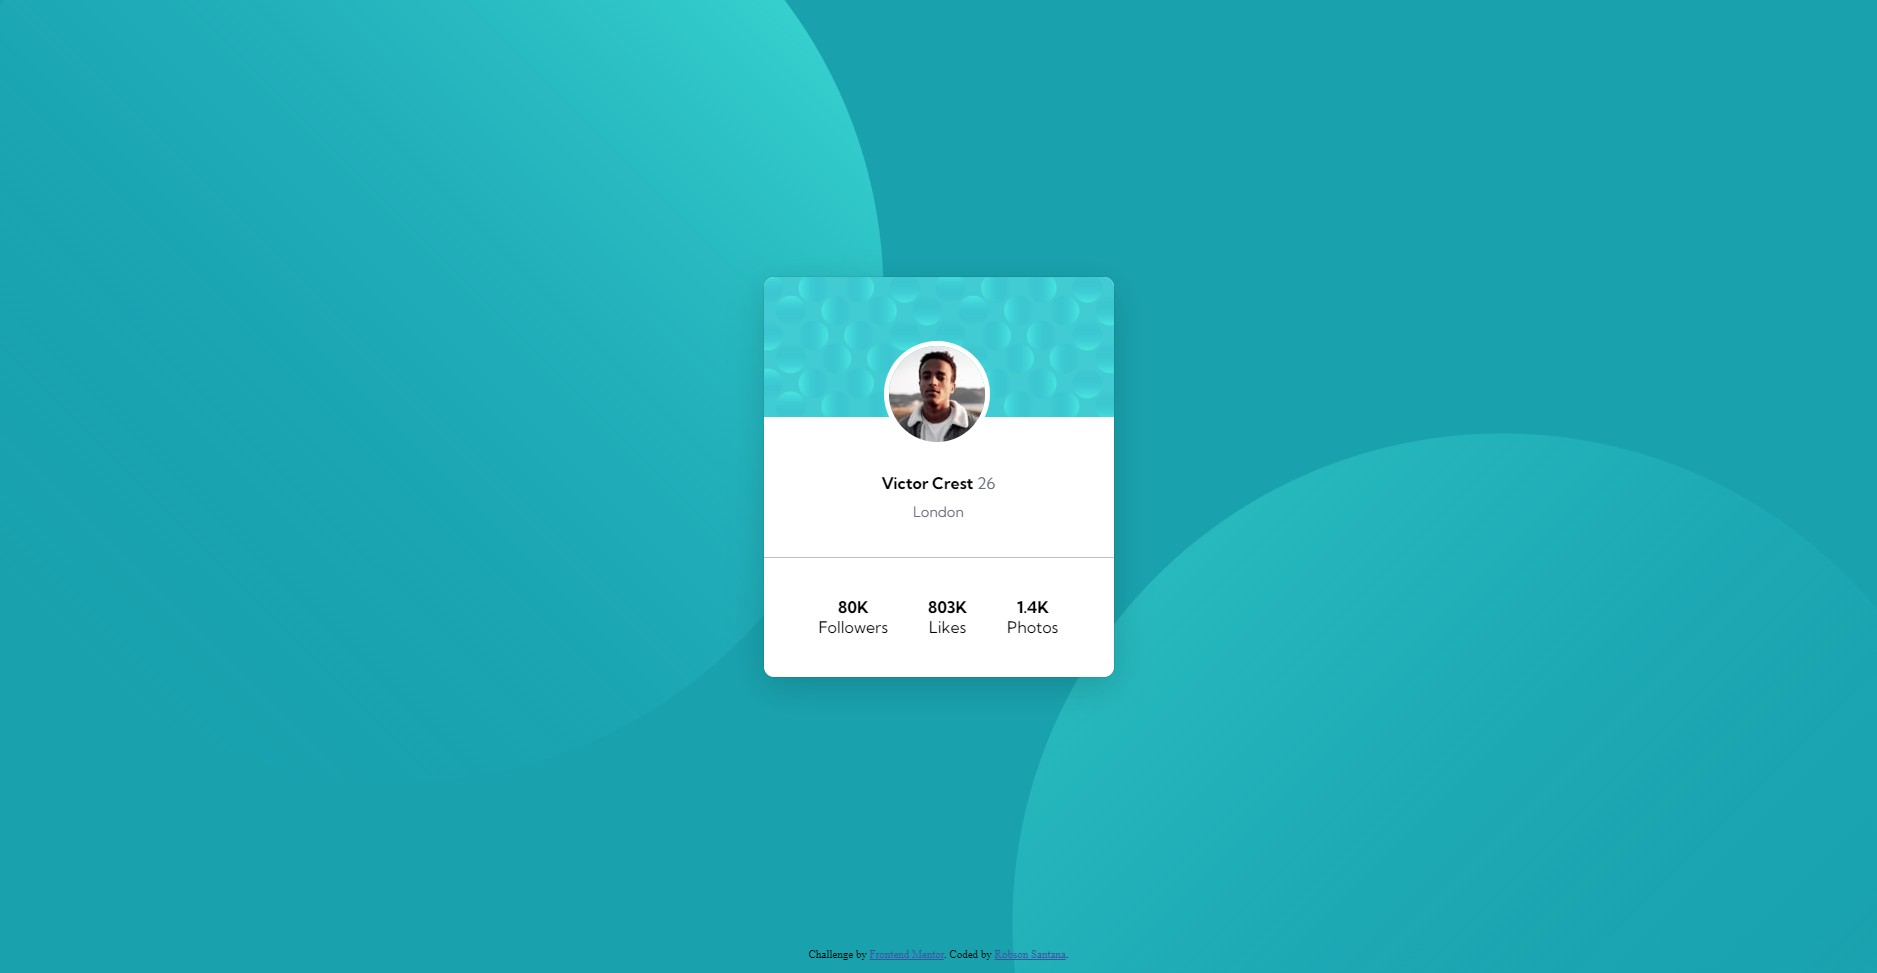
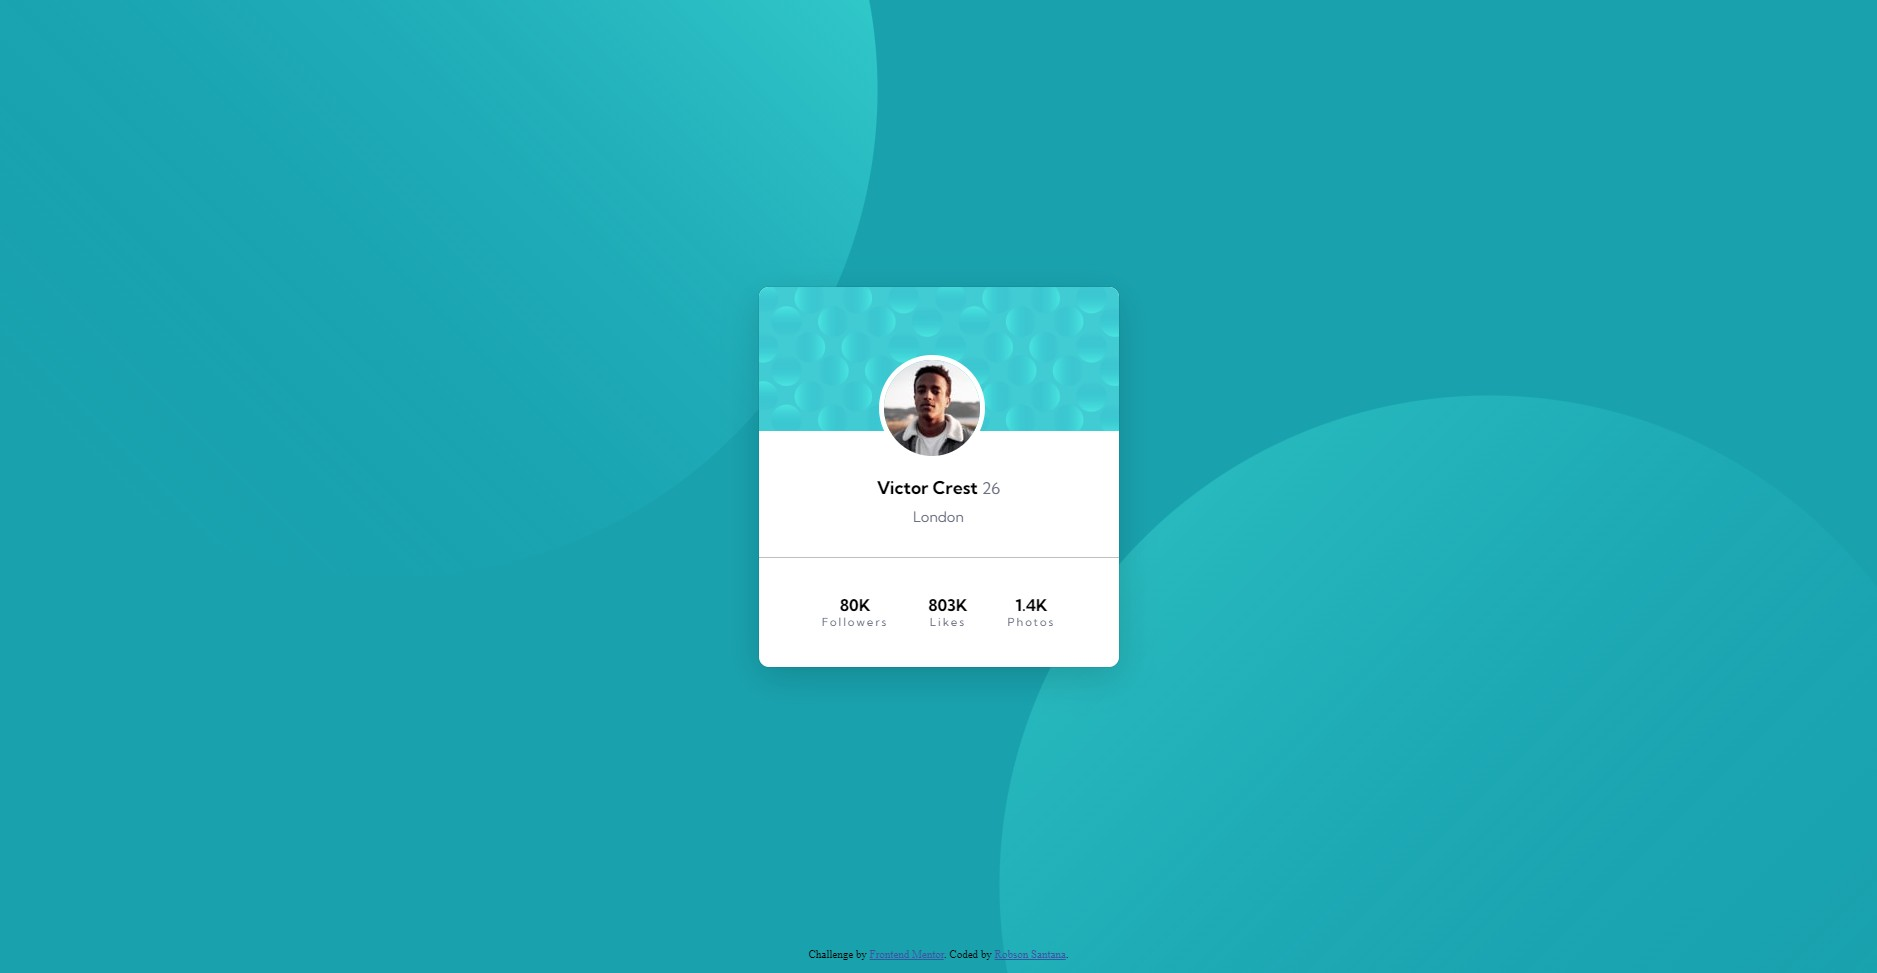
Adjust small details

diff --git a/pccomp-nb/index.html b/pccomp-nb/index.html
@@ -30,9 +30,9 @@
           <p id="location">London</p>
         </div>
         <div id="statistics">
-          <div class="stats-col"><span class="number">80K</span> Followers</div>
-          <div class="stats-col"><span class="number">803K</span> Likes</div>
-          <div class="stats-col"><span class="number">1.4K</span> Photos</div>
+          <div class="stats-col"><span class="number">80K</span> <span class="stats-text">Followers</span></div>
+          <div class="stats-col"><span class="number">803K</span> <span class="stats-text">Likes</span></div>
+          <div class="stats-col"><span class="number">1.4K</span> <span class="stats-text">Photos</span></div>
         </div>
       </div>
     </main>

diff --git a/pccomp-nb/style.css b/pccomp-nb/style.css
@@ -34,8 +34,8 @@ footer a { color: hsl(228, 45%, 44%); }
 #container {
     background-color: hsl(0, 0%, 100%);
     border-radius: 10px;
-    width: 350px;
-    height: 400px;
+    width: 360px;
+    height: 380px;
     display: grid;
     grid-template-rows: 160px 1fr 1fr;
     box-shadow: rgba(0, 0, 0, 0.16) 0px 10px 36px 0px, rgba(0, 0, 0, 0.06) 0px 0px 0px 1px;
@@ -119,6 +119,12 @@ footer a { color: hsl(228, 45%, 44%); }
     flex-direction: column;
     justify-content: center;
     align-items: center;
+}
+
+.stats-text {
+    color: hsl(227, 10%, 46%);
+    font-size: 0.7rem;
+    letter-spacing: 2px;
 }
 
 .number {
